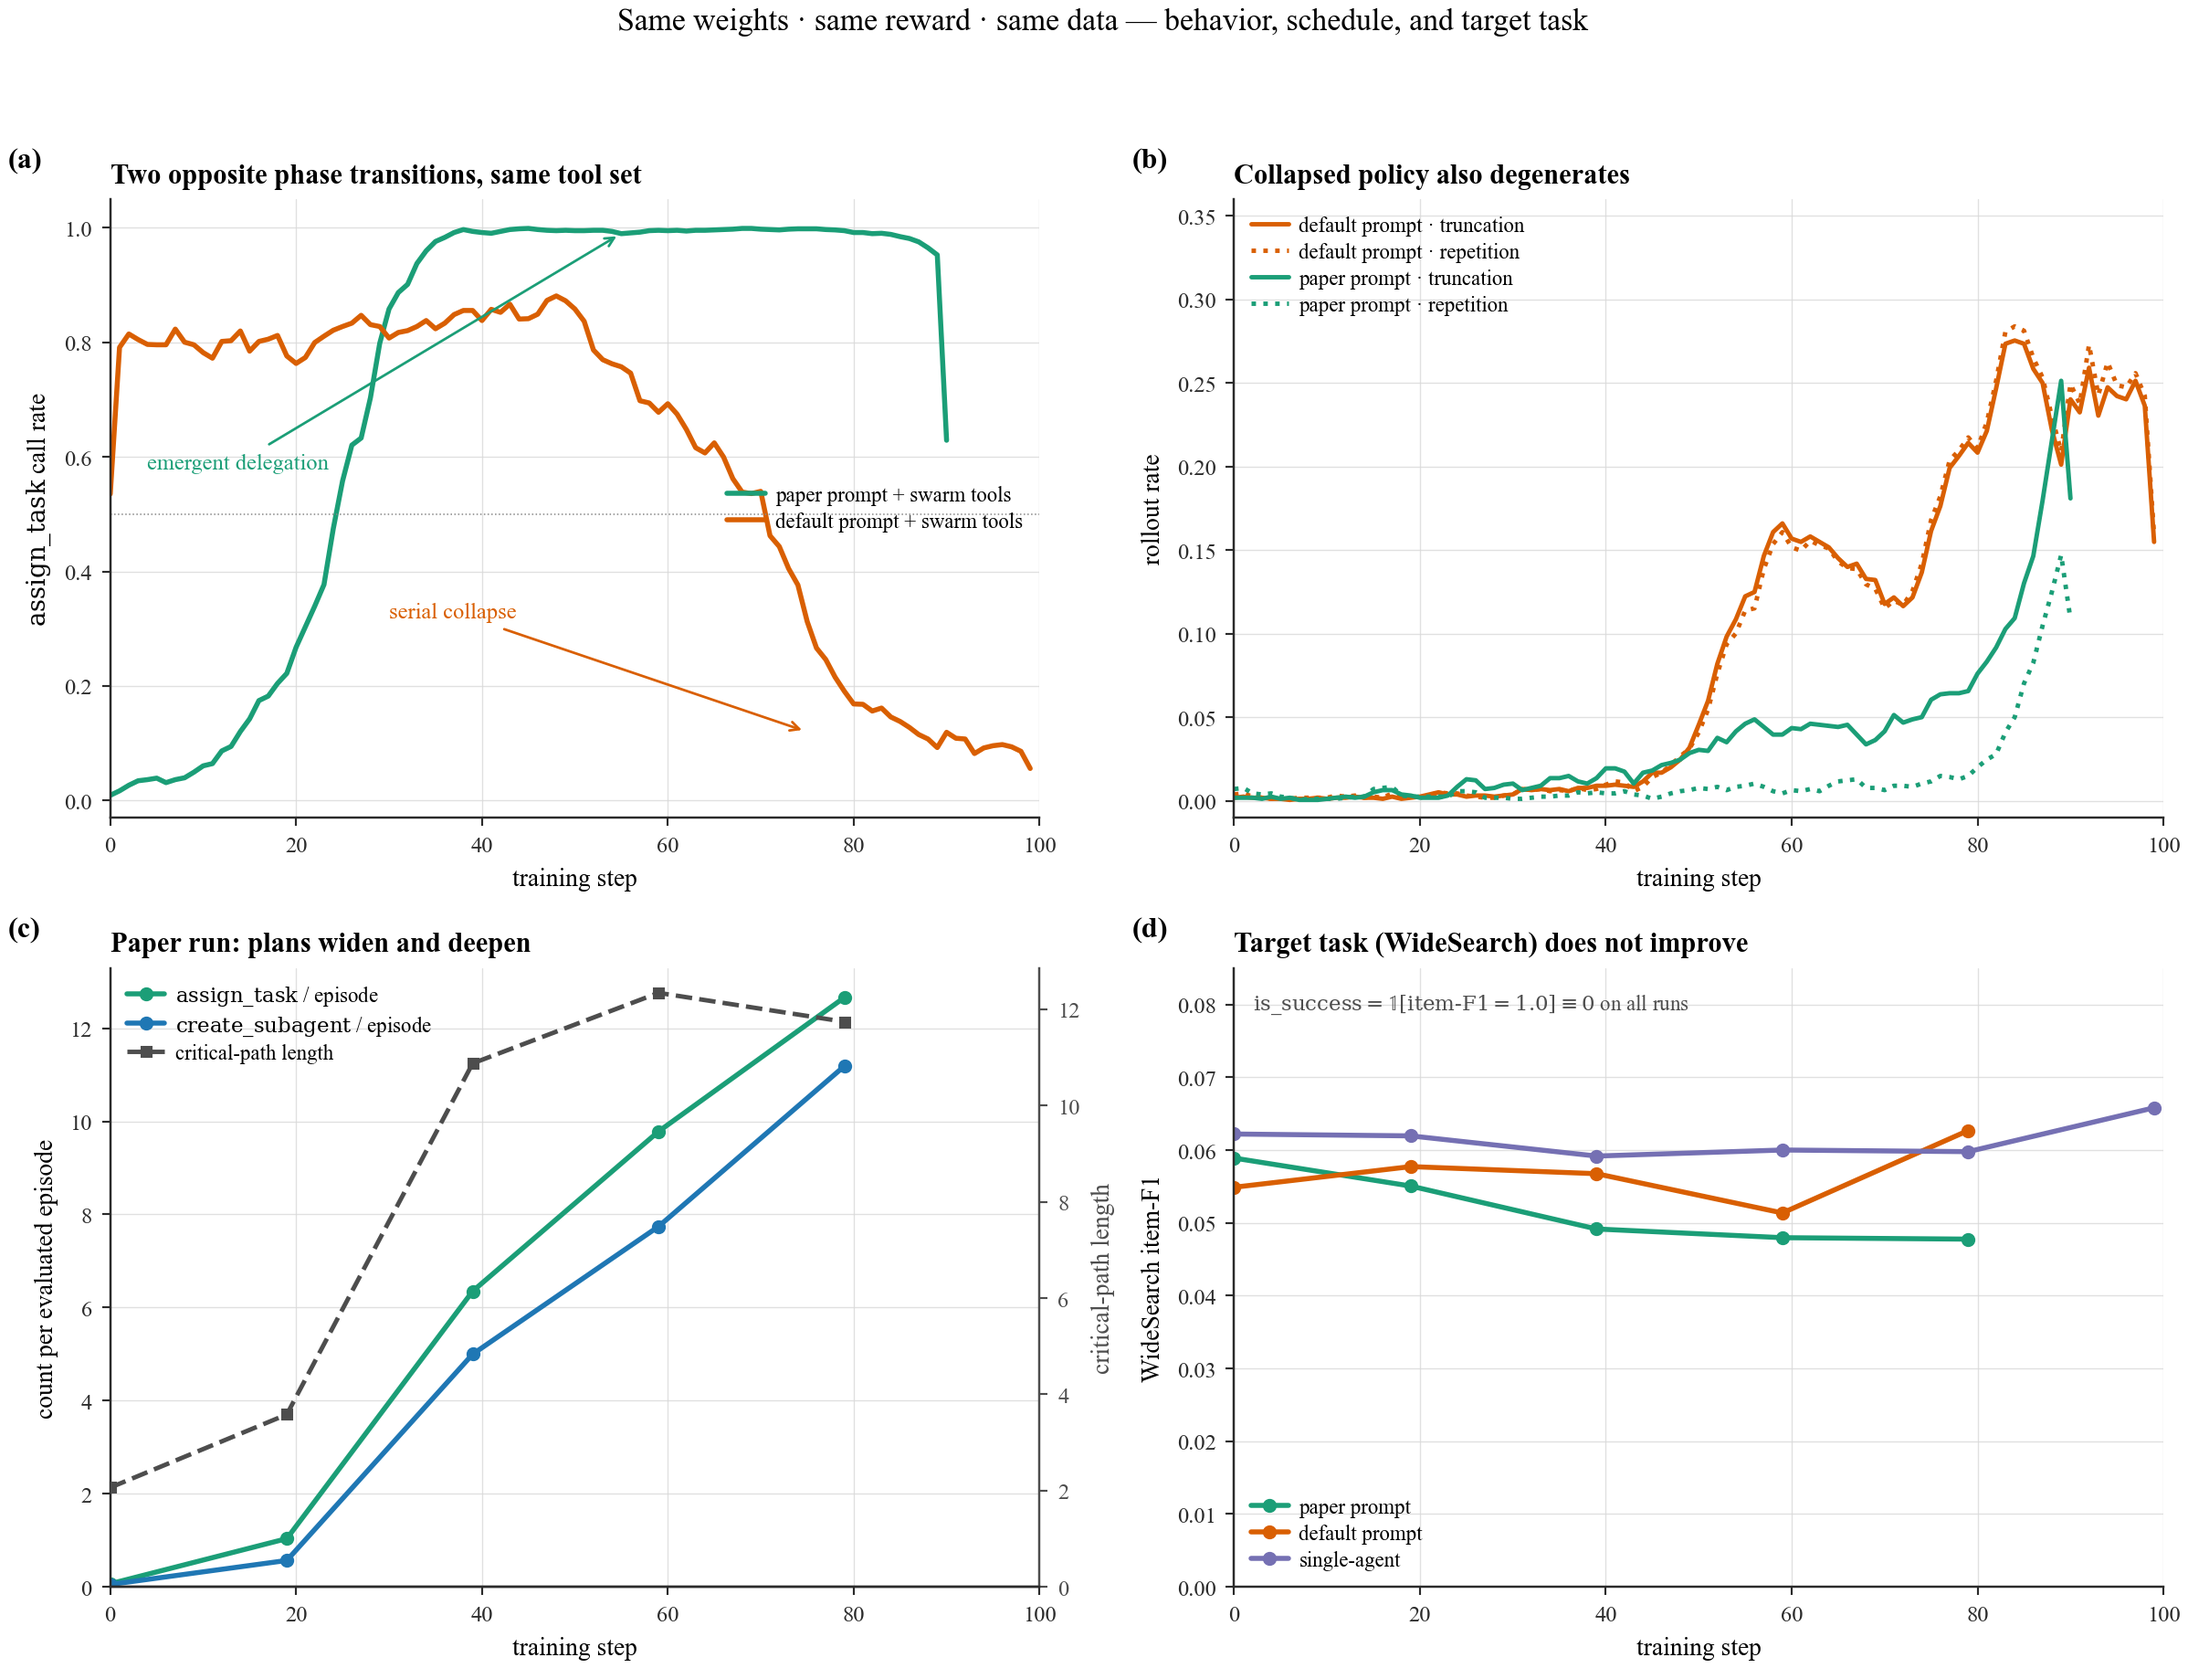
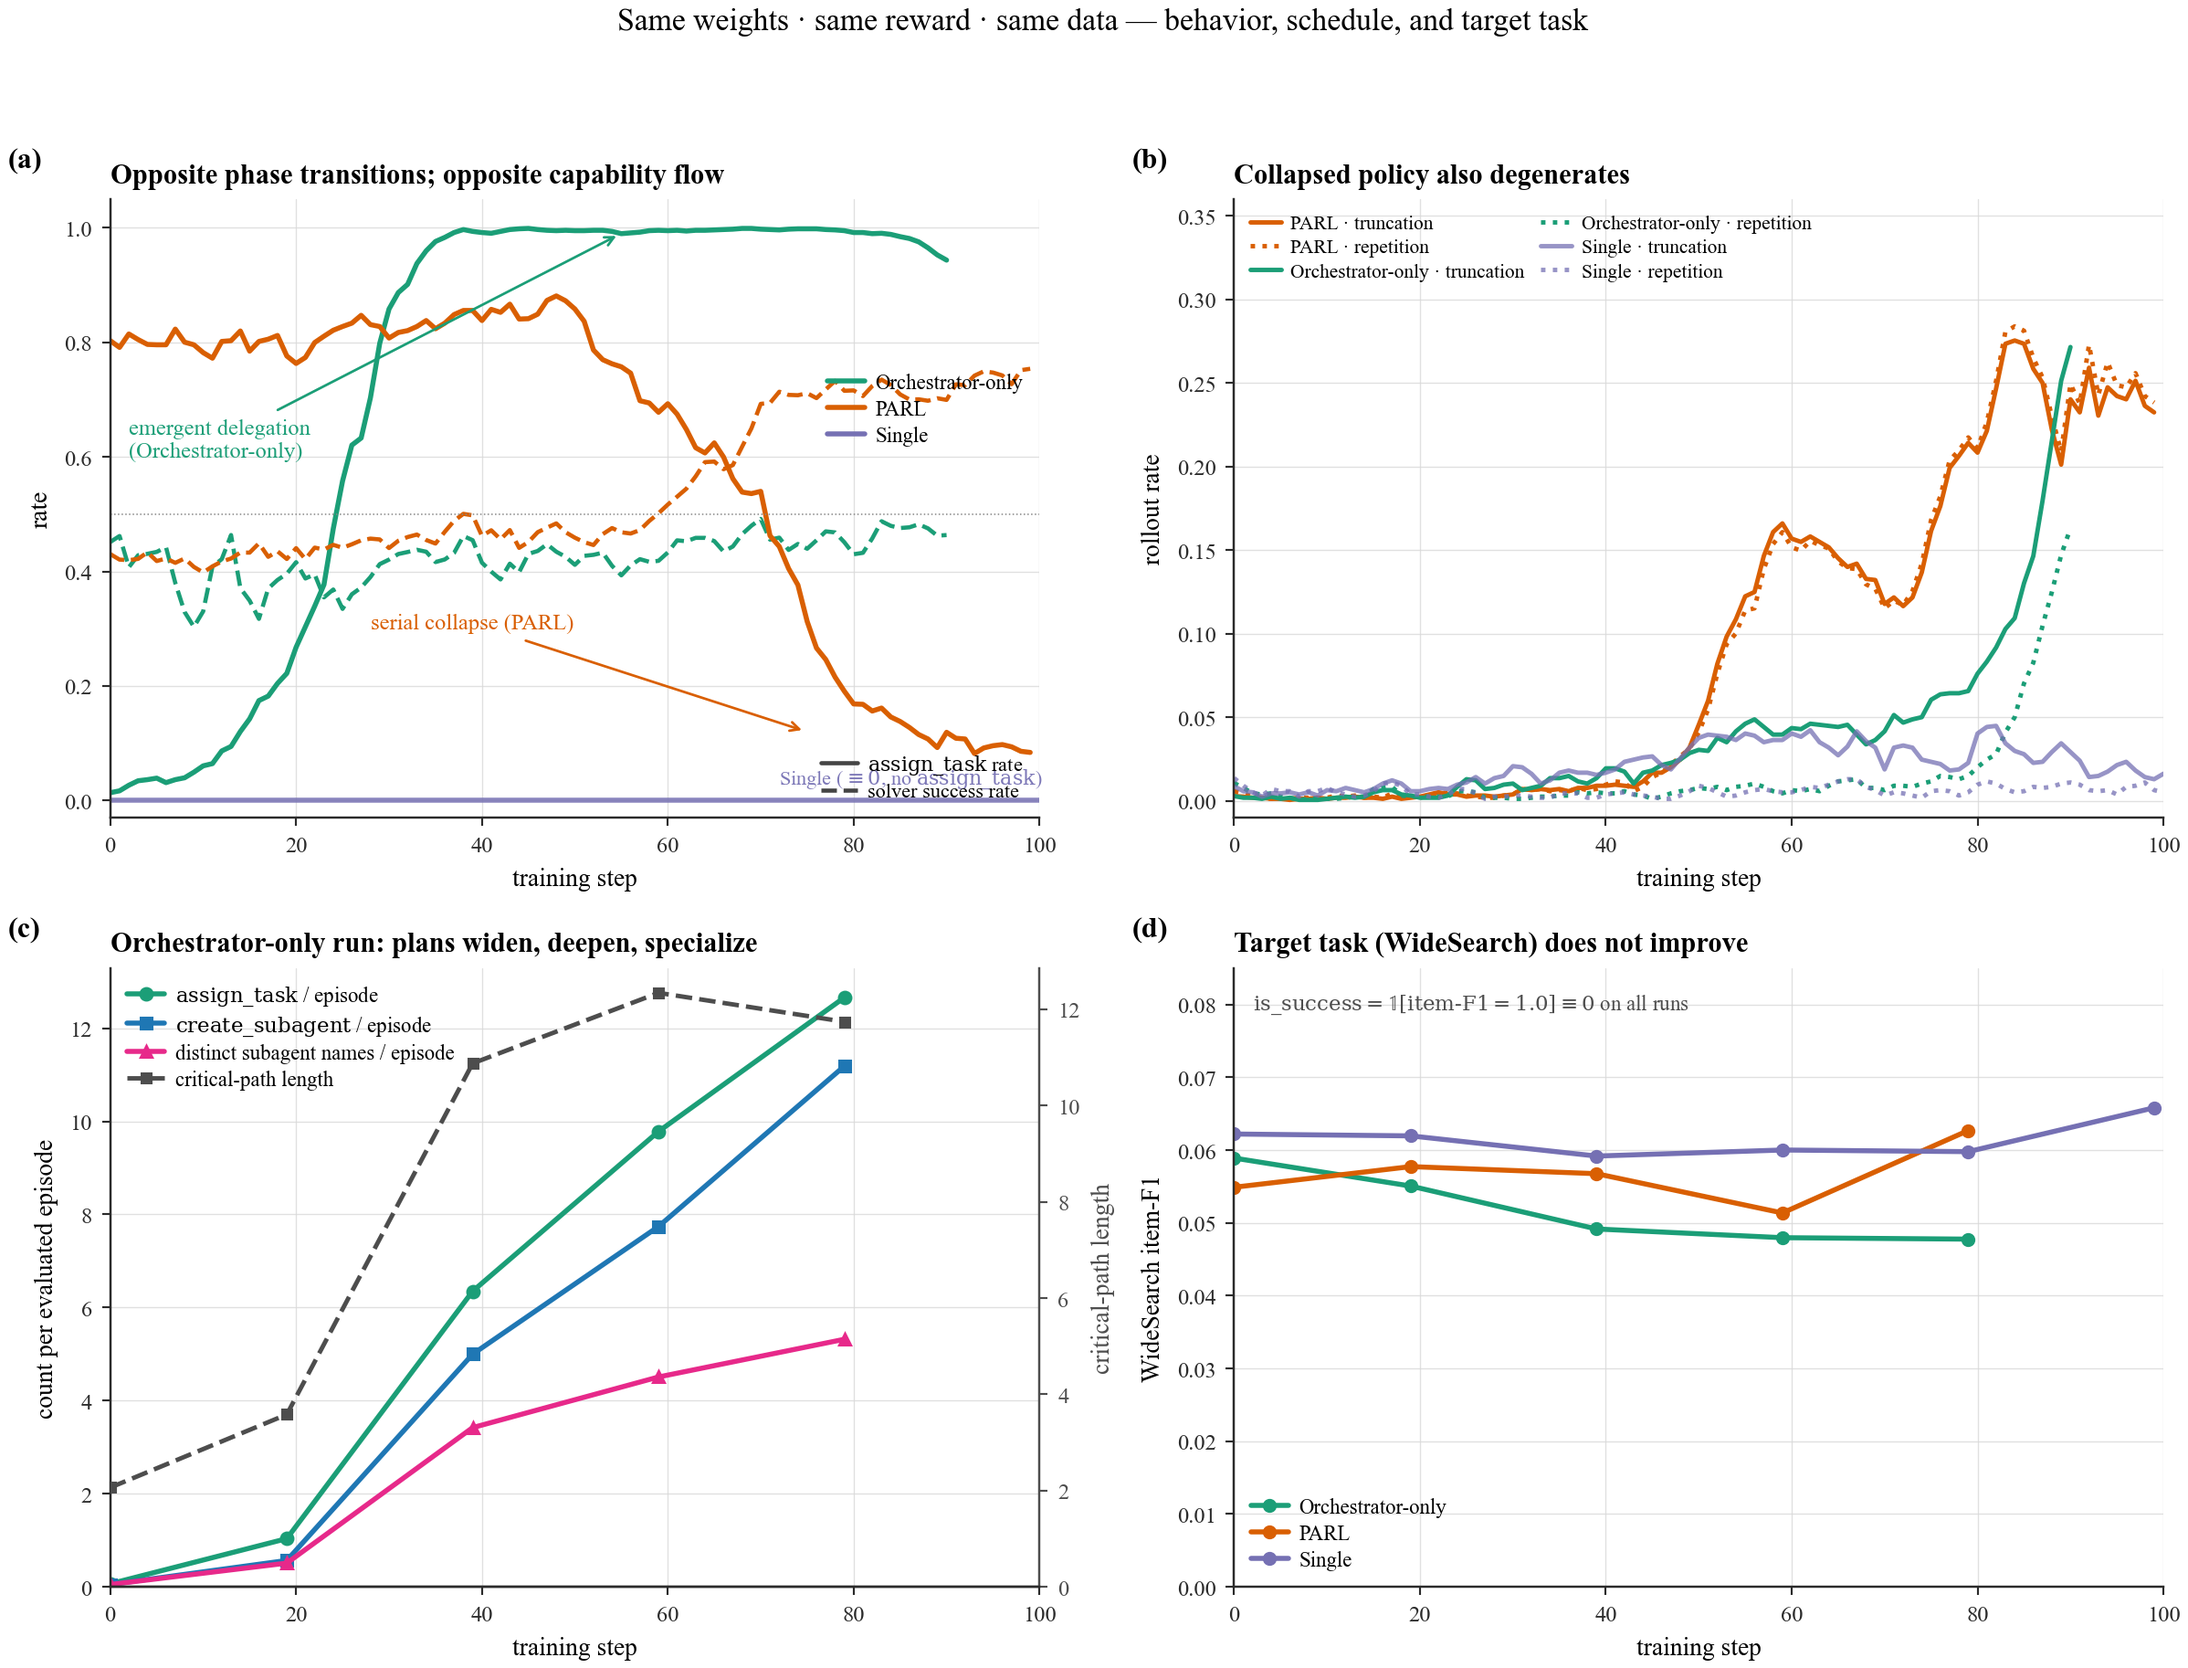
[fix] curve smoothing.

diff --git a/BLOG.md b/BLOG.md
@@ -13,39 +13,72 @@ The paper proposes a decoupled architecture and a
 paper does **not** give closed-form formulas for `r_parallel` /
 `r_finish`, nor the annealing schedule.
 
-I trained three Qwen3-4B RL runs that differ **only** in the
-orchestrator prompt + which tools are exposed. Everything else —
-optimizer, dataset, critic, rollout budget, GRPO config — is identical:
+I trained three Qwen3-4B RL runs that differ along a single knob:
+`--agent-mode`, which bundles the orchestrator system prompt *and*
+the exposed tool inventory. Everything else — optimizer, dataset,
+critic, rollout budget, GRPO config — is identical.
 
-| Run | Orchestrator prompt | Tools available |
-|---|---|---|
-| `single-baseline` | single-agent prompt | search / browse / python |
-| `orch-only`       | **default** prompt  | search / browse / python / `create_subagent` / `assign_task` |
-| `paper-config`    | K2.5 orchestrator prompt | search / browse / python / `create_subagent` / `assign_task` |
+| Run | `--agent-mode` | Direct tools<br/>(search / browse / python) | Subagent tools<br/>(`create_subagent` / `assign_task`) |
+|---|---|:---:|:---:|
+| **Single**              | `single-agent` | ✓ | ✗ |
+| **PARL** (swarm-strict) | `swarm`        | ✗ | ✓ |
+| **Orchestrator-only** (swarm-paper) | `swarm-paper`  | ✓ | ✓ |
+
+*PARL* is the paper's strict reading — the Orchestrator *must*
+delegate, it has no direct tools. *Orchestrator-only* is the
+paper-faithful Appendix E.8 setting — the Orchestrator *can* delegate
+but keeps direct tools as a fallback. The relevant contrast below is
+between these two: both expose `assign_task`, but only
+Orchestrator-only has anywhere to go when a delegation fails.
 
 ## Behavior, schedule, and target task in one view
 
 ![phase transition](docs/assets/phase_transition.png)
 
-**(a) Two opposite phase transitions, same tool set.** Both runs expose
-`create_subagent` + `assign_task`. With the K2.5 orchestrator prompt
-(teal), `assign_task` call rate climbs **0.03 → 1.00**. With the
-default prompt (orange), it decays **0.80 → 0.10** — RL actively
-*unlearns* delegation. This operationalizes K2.5's theoretical
-serial-collapse as a sub-100-step phase transition, driven by prompt
-rather than by the policy's tool inventory.
+**(a) Opposite phase transitions; opposite capability flow.** Both
+runs that expose `assign_task` — PARL (orange, subagent tools only)
+and Orchestrator-only (teal, subagent tools + direct fallback) — move
+under the *same* RL signal, but in opposite directions.
+Orchestrator-only's `assign_task` call rate climbs **0.03 → 1.00**;
+PARL's decays **0.80 → 0.10**. Single has no `assign_task` tool so
+its rate is flat at 0 (purple line, bottom). The dashed lines tell
+the mirror *capability* story: on Orchestrator-only,
+`reward/solver_success_rate` stays **flat at 0.40–0.46** — the
+*frozen subagent doesn't learn*. On PARL, where the orchestrator hits
+increasingly narrow delegations (those that survive), the remaining
+assignments get *better* — **0.42 → 0.72** — even as delegation
+frequency collapses.
 
-**(b) Collapsed policy also degenerates.** It isn't a harmless
-single-agent fallback. Truncation rate climbs to **23%** and
-repetition to **24%** on the default-prompt run; the paper-config run
-stays under **5%** on both. The policy slowly gives up on producing
-coherent outputs.
+The framing that *didn't* hold up: "prompt drives the phase
+transition". PARL and Orchestrator-only don't differ only in prompt
+— they differ in whether the orchestrator has a direct-tool fallback
+at all. What the data actually shows is: **giving the orchestrator
+nowhere to go when delegation fails (PARL) collapses RL; giving it a
+fallback (Orchestrator-only) lets RL discover *when* to delegate.**
+This is an action-space finding, not a prompt finding, and it also
+reframes K2.5's serial-collapse warning — the paper worried about
+reward sparsity; our runs suggest the deeper issue is that a
+must-delegate action space gives RL no off-ramp.
 
-**(c) Paper run: plans widen and deepen.** Each evaluated episode
-eventually composes **~12 `assign_task` calls × ~11 `create_subagent`
-instantiations**, with critical-path length growing proportionally.
-The Orchestrator is not just calling `assign_task` more often — it
-composes larger, deeper plans to spread across frozen subagents.
+**(b) Collapsed policy also degenerates.** PARL's collapse isn't a
+harmless retreat to "do it all yourself" — it has no direct tools to
+retreat *to*. Truncation rate climbs to **23%** and repetition to
+**24%**; Orchestrator-only stays under **5%** on both, and Single
+stays under **3%** (faint purple lines at the bottom). The policy
+slowly gives up on producing coherent outputs entirely.
+
+**(c) Orchestrator-only run: plans widen, deepen, and specialize.**
+Each evaluated episode eventually composes **~12 `assign_task` calls
+× ~11 `create_subagent` instantiations**, with critical-path length
+growing proportionally. The registry of **distinct subagent names**
+per episode grows **0 → ~5** — a scalar proxy for K2.5's Figure 6
+specialization word-cloud (Biography Researcher / Fact Checker / …)
+that our rollout logs don't capture directly. The gap between
+`create_subagent` calls (~11) and distinct names (~5) means the
+Orchestrator **re-uses** specialist roles across subtasks rather than
+spawning fresh ones each time. The Orchestrator is not just calling
+`assign_task` more often — it composes larger, deeper, and more
+heterogeneous plans, then *re-uses* the specialists it has created.
 
 **(d) Target task does not improve.** WideSearch item-F1 (the
 training reward's widesearch term) stays flat-to-down across all three
@@ -54,12 +87,13 @@ closable gaps explain this:
 
 - `rollout_max_critical_steps = 48` vs the paper's Appendix E.8 budget
   of **100 orchestrator + 100 subagent** steps for WideSearch;
-- `examples/parl_v2/widesearch/reward.py` ships
-  `ANNEAL_FRAC = 100.0`, so `λ₁` and `λ₂` **never anneal** under the
-  planned rollout count. Pressure from `r_parallel + r_finish` stays
-  constant, and the policy meets it by hacking spawn count (`n_assign`
+- `src/openparl/widesearch/reward.py` ships `ANNEAL_FRAC = 100.0`, so
+  `λ₁` and `λ₂` **never anneal** under the planned rollout count.
+  Pressure from `r_parallel + r_finish` stays constant, and the
+  Orchestrator-only policy meets it by hacking spawn count (`n_assign`
   climbs to ~12/episode, `r_parallel` saturates at 0.70) while item-F1
-  on WideSearch actually drops **0.059 → 0.048**.
+  on WideSearch actually drops **0.059 → 0.048**. (PARL can't hack
+  this way — it's busy degenerating, per panel (b).)
 
 The delegation dynamics reproduce cleanly. Closing the WideSearch gap
 needs a correct annealing schedule and a matching step budget — both
@@ -72,25 +106,28 @@ are single-line changes in the launcher / reward file.
 EM (solid) and cover-EM (dashed) on HotpotQA, 2WikiMultihop, and
 Bamboogle at pass@{1, 2, 4}.
 
-- **paper-config (teal) is clearly ahead on strict EM** across all
-  three benchmarks and all three pass levels. The ordering does not
-  invert as K grows, so this is not a pass@4 artifact — it's a
+- **Orchestrator-only (teal) is clearly ahead on strict EM** across
+  all three benchmarks and all three pass levels. The ordering does
+  not invert as K grows, so this is not a pass@4 artifact — it's a
   reproducible behavioral effect.
 - **cover-EM narrows the gap.** All three runs land in similar
   cover-EM bands, suggesting that subagents already "know" the answer.
-  What the orchestrator learns under the paper prompt is to
-  **assemble and format** the final response precisely enough to match
-  strict EM.
-- **The default-prompt run underperforms single-agent on HotpotQA /
-  2Wiki cover-EM** — another symptom of the behavioral collapse
-  visible in panel (b) above.
+  What the Orchestrator learns in the swarm-paper action space is to
+  **assemble and format** the final response precisely enough to
+  match strict EM.
+- **PARL underperforms Single on HotpotQA / 2Wiki cover-EM** —
+  another symptom of the behavioral collapse visible in panel (b)
+  above.
 
 ---
 
-**Runs**: All ran on 1× H200 × 8, Qwen3-4B
-Orchestrator + Qwen3-4B frozen Subagent, GRPO, ~80 updates.
-Reproduction launchers:
-[`scripts/run-qwen3-4B-{single,orchestrator_only,parl}.sh`](scripts/).
+**Runs**: All ran on 1× H200 × 8, Qwen3-4B Orchestrator + Qwen3-4B
+frozen Subagent, GRPO, ~80 updates. Reproduction launchers map
+one-to-one with the arms above:
+`scripts/run-qwen3-4B-single.sh` → **Single**,
+`scripts/run-qwen3-4B-parl.sh` → **PARL** (swarm-strict),
+`scripts/run-qwen3-4B-orchestrator_only.sh` → **Orchestrator-only**
+(swarm-paper).
 
 **Reference:** Kimi Team, *Kimi K2.5: Visual Agentic Intelligence*,
 arXiv:2602.02276, §3.1 and Appendix E.8.
